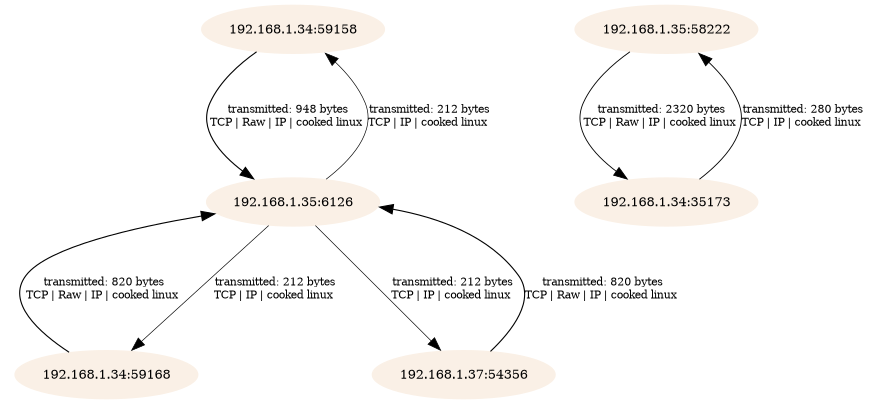
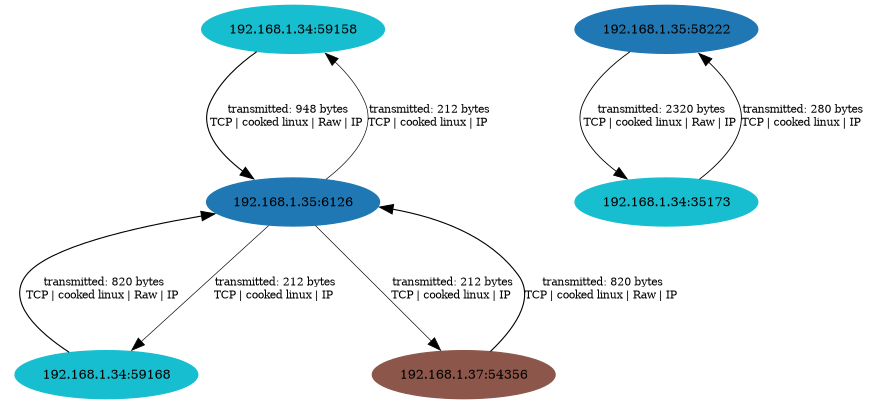
add colors per host

diff --git a/pcapviz/core.py b/pcapviz/core.py
@@ -160,7 +160,17 @@ class GraphManager(object):
 		self.graph.label ="Layer %d traffic graph for packets from %s" % (self.layer,str(self.args.pcaps))
 
 		graph = self.get_graphviz_format()
-		
+
+		unique_ips = set()
+		for node in self.graph.nodes():
+			ip = node.split(':')[0]
+			unique_ips.add(ip)
+
+		from matplotlib import cm
+		from matplotlib.colors import to_hex
+		cmap = cm.get_cmap('tab10', len(unique_ips))
+		ip_colors = {ip: to_hex(cmap(i)) for i, ip in enumerate(unique_ips)}
+				
 		for node in graph.nodes():
 			if node not in self.data:
 				# node might be deleted, because it's not legit etc.
@@ -170,7 +180,8 @@ class GraphManager(object):
 			node.attr['shape'] = self.args.shape
 			node.attr['fontsize'] = '10'
 			node.attr['width'] = '0.5'
-			node.attr['color'] = 'linen'
+			node_ip = snode.split(':')[0] 
+			node.attr['color'] = ip_colors.get(node_ip, 'linen')
 			node.attr['style'] = 'filled,rounded'
 			if 'country' in self.data[snode]:
 				country_label = self.data[snode]['country']
